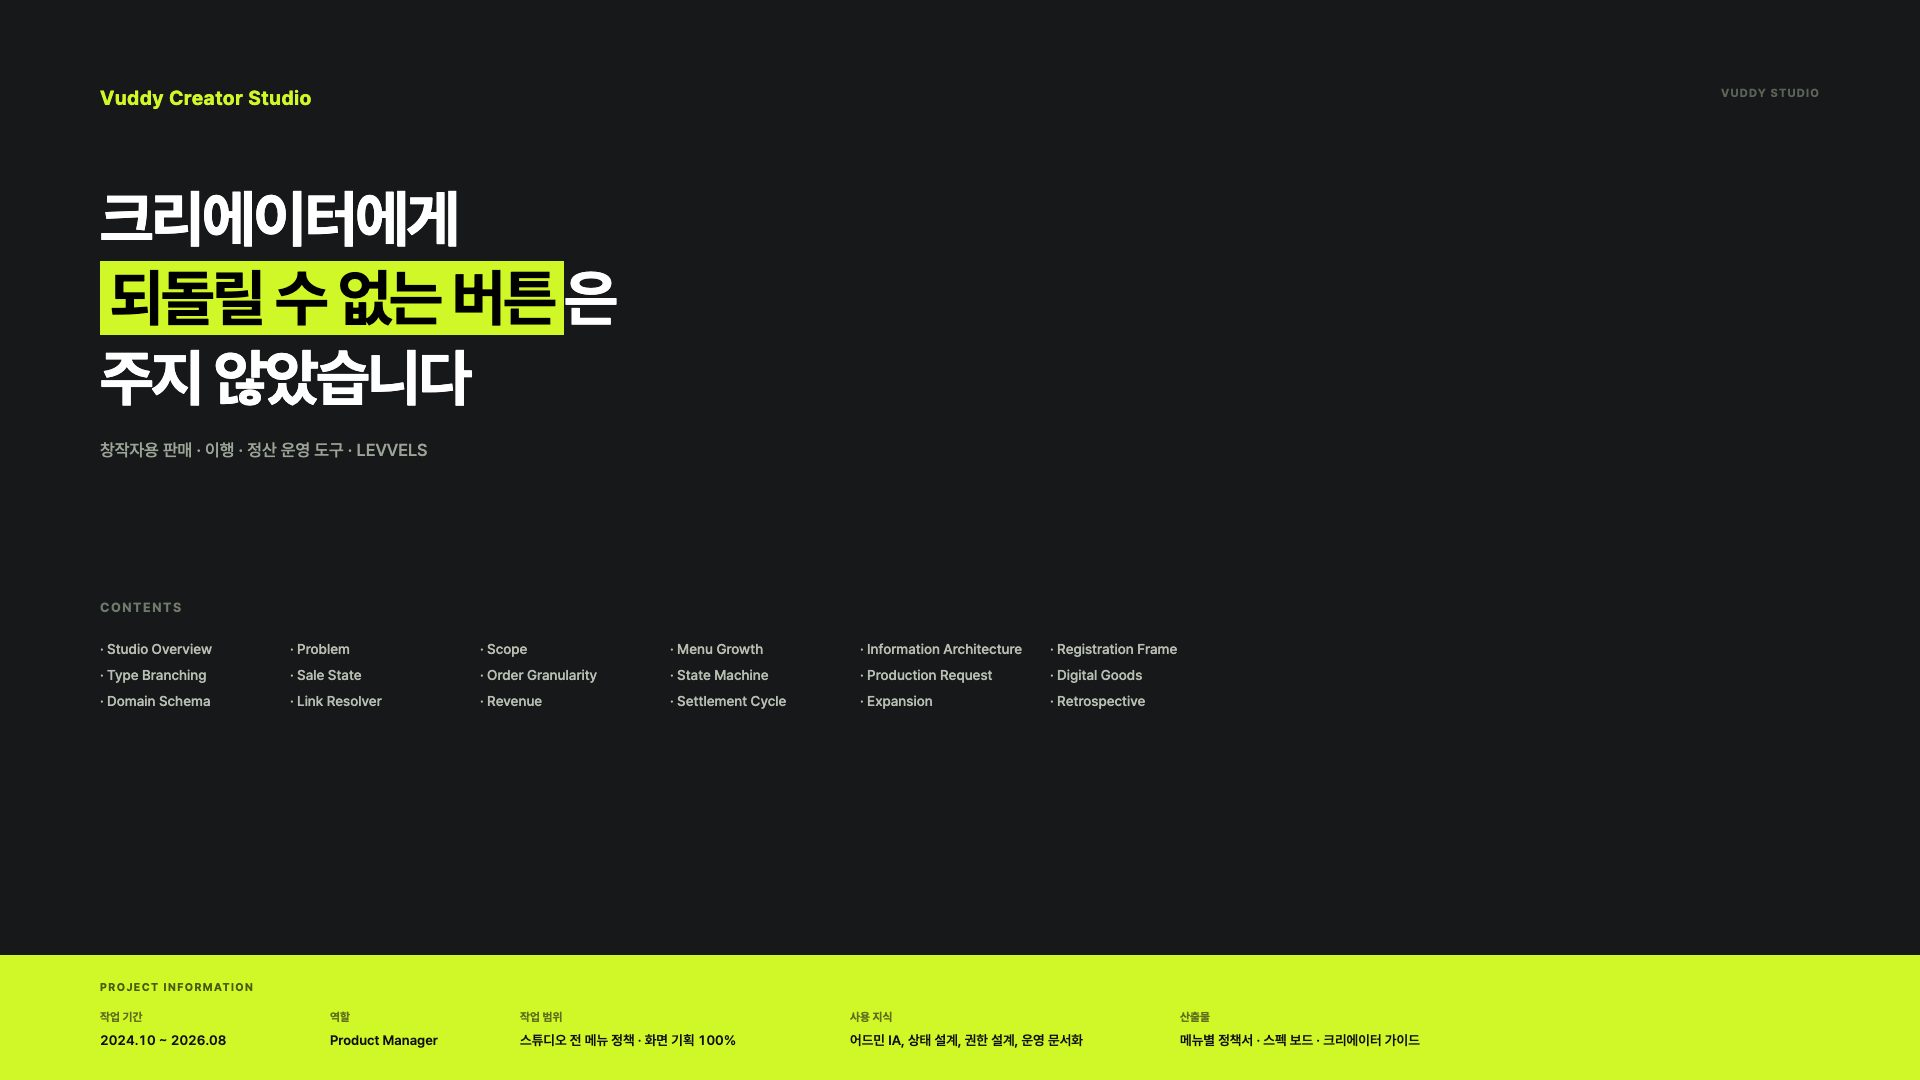
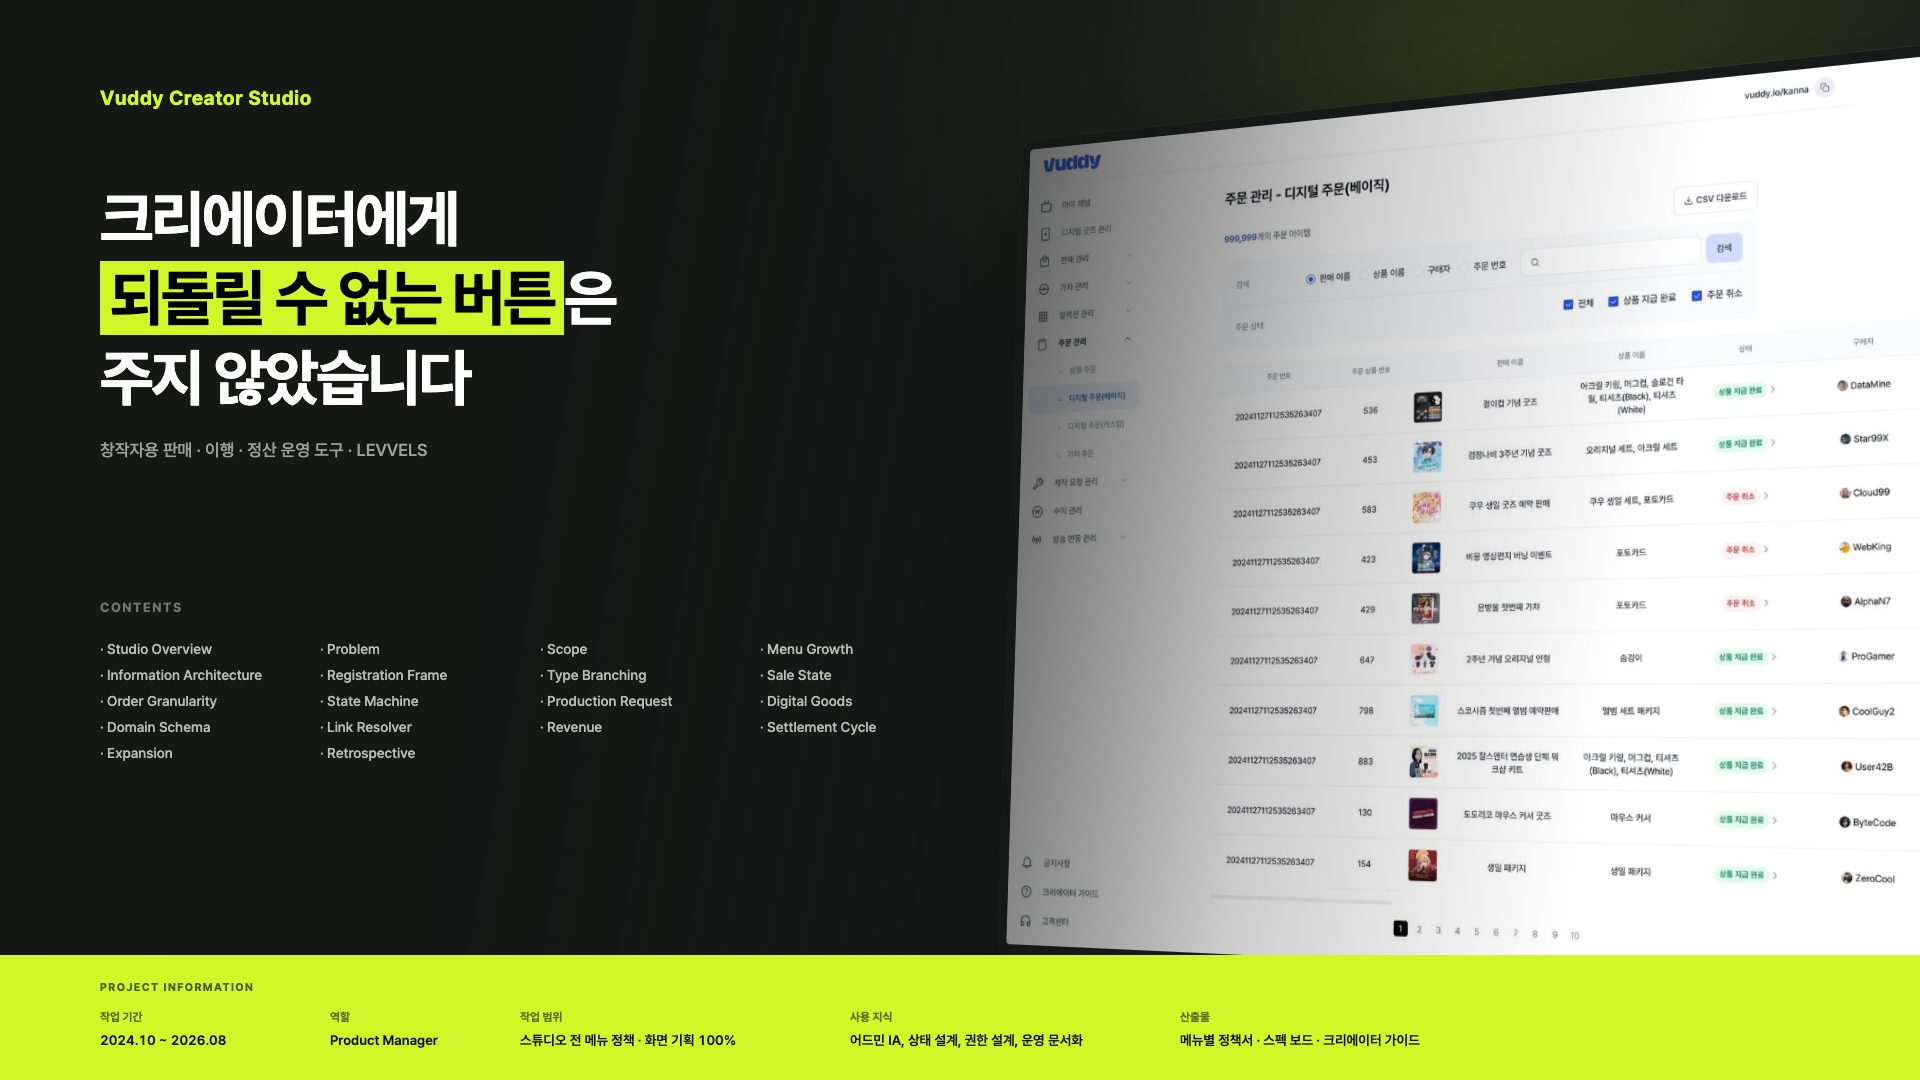
스튜디오 표지에 3D 백오피스 목업 추가
물류 커버(OMS·TMS·라스트마일)가 모두 기울인 기기 목업 안에 실제 제품
화면을 넣는 구조라 같은 방식으로 맞췄다. 표지가 텍스트만 있어 무엇을
만들었는지 한눈에 안 보이던 문제도 함께 해결된다.

- 주문 관리 화면을 CSS 3D(perspective + rotateY/X/Z)로 세우고 베젤과
  그림자를 붙여 목업으로 구성. 좌측에는 그라데이션 스크림을 깔아 제목
  가독성을 유지했다
- 배경에 키컬러 라임 글로우를 얹어 하단 정보 패널과 색을 맞춤

겹침 두 곳을 함께 정리:
- 우상단 'VUDDY STUDIO' 라벨이 목업 위에 찍혀 표지에서만 숨김
- CONTENTS 가 6열이라 오른쪽 3개 항목이 목업에 묻혀 4열로 좁힘
  (18개 항목은 그대로)

릴 썸네일도 새 표지로 재캡처.

diff --git a/works/studio-embed.html b/works/studio-embed.html
@@ -163,6 +163,22 @@ border-radius:3px;padding:7px 15px;font-size:13.5px;color:var(--g1);font-weight:
 
 <!-- ══ CS 01 · 커버 ══ -->
 <div class="wrap" id="cs-01"><div class="stage"><div class="fr cov">
+ <!-- 배경: 키컬러 글로우 + 3D 각도로 세운 스튜디오 화면 목업 -->
+ <div style="position:absolute;inset:0;overflow:hidden">
+   <div style="position:absolute;inset:0;background:
+     radial-gradient(1100px 760px at 78% 6%, rgba(208,247,39,.16), transparent 62%),
+     radial-gradient(900px 700px at 104% 58%, rgba(208,247,39,.10), transparent 58%)"></div>
+   <div style="position:absolute;left:1010px;top:132px;width:1180px;perspective:2000px">
+     <div style="transform:rotateY(-19deg) rotateX(5deg) rotateZ(-1.5deg);transform-origin:left center;
+                 border-radius:14px;overflow:hidden;background:#0d0f0d;
+                 border:10px solid #17191a;box-shadow:0 60px 120px rgba(0,0,0,.62),0 0 0 1px rgba(255,255,255,.06)">
+       <img src="../images/studio/studio-mock.jpg" alt="Vuddy 크리에이터 스튜디오 주문 관리 화면" style="display:block;width:100%">
+     </div>
+   </div>
+   <!-- 좌측 텍스트 가독성을 위한 스크림 -->
+   <div style="position:absolute;inset:0;background:linear-gradient(100deg,
+     rgba(22,24,22,.97) 0%,rgba(22,24,22,.94) 30%,rgba(22,24,22,.72) 48%,rgba(22,24,22,.22) 66%,rgba(22,24,22,0) 82%)"></div>
+ </div>
  <div style="position:absolute;left:100px;top:86px;font-size:20px;font-weight:700;color:var(--lime);letter-spacing:.02em">Vuddy Creator Studio</div>
  <div style="position:absolute;left:100px;top:180px;width:1300px;font-size:62px;font-weight:700;color:#fff;line-height:1.28;letter-spacing:-.04em">
    크리에이터에게<br><em style="font-style:normal;background:var(--lime);color:#000;padding:0 10px">되돌릴 수 없는 버튼</em>은<br>주지 않았습니다</div>
@@ -170,25 +186,25 @@ border-radius:3px;padding:7px 15px;font-size:13.5px;color:var(--g1);font-weight:
    창작자용 판매 · 이행 · 정산 운영 도구 · LEVVELS</div>
 
  <div style="position:absolute;left:100px;top:600px;font-size:13px;font-weight:700;color:#6E7A6C;letter-spacing:.12em">CONTENTS</div>
- <div style="position:absolute;left:100px;top:636px;width:1320px;display:flex;flex-wrap:wrap;gap:0">
-   <div style="width:190px;font-size:14px;color:#B6BEB2;font-weight:500;padding:5px 0">· Studio Overview</div>
-   <div style="width:190px;font-size:14px;color:#B6BEB2;font-weight:500;padding:5px 0">· Problem</div>
-   <div style="width:190px;font-size:14px;color:#B6BEB2;font-weight:500;padding:5px 0">· Scope</div>
-   <div style="width:190px;font-size:14px;color:#B6BEB2;font-weight:500;padding:5px 0">· Menu Growth</div>
-   <div style="width:190px;font-size:14px;color:#B6BEB2;font-weight:500;padding:5px 0">· Information Architecture</div>
-   <div style="width:190px;font-size:14px;color:#B6BEB2;font-weight:500;padding:5px 0">· Registration Frame</div>
-   <div style="width:190px;font-size:14px;color:#B6BEB2;font-weight:500;padding:5px 0">· Type Branching</div>
-   <div style="width:190px;font-size:14px;color:#B6BEB2;font-weight:500;padding:5px 0">· Sale State</div>
-   <div style="width:190px;font-size:14px;color:#B6BEB2;font-weight:500;padding:5px 0">· Order Granularity</div>
-   <div style="width:190px;font-size:14px;color:#B6BEB2;font-weight:500;padding:5px 0">· State Machine</div>
-   <div style="width:190px;font-size:14px;color:#B6BEB2;font-weight:500;padding:5px 0">· Production Request</div>
-   <div style="width:190px;font-size:14px;color:#B6BEB2;font-weight:500;padding:5px 0">· Digital Goods</div>
-   <div style="width:190px;font-size:14px;color:#B6BEB2;font-weight:500;padding:5px 0">· Domain Schema</div>
-   <div style="width:190px;font-size:14px;color:#B6BEB2;font-weight:500;padding:5px 0">· Link Resolver</div>
-   <div style="width:190px;font-size:14px;color:#B6BEB2;font-weight:500;padding:5px 0">· Revenue</div>
-   <div style="width:190px;font-size:14px;color:#B6BEB2;font-weight:500;padding:5px 0">· Settlement Cycle</div>
-   <div style="width:190px;font-size:14px;color:#B6BEB2;font-weight:500;padding:5px 0">· Expansion</div>
-   <div style="width:190px;font-size:14px;color:#B6BEB2;font-weight:500;padding:5px 0">· Retrospective</div>
+ <div style="position:absolute;left:100px;top:636px;width:880px;display:flex;flex-wrap:wrap;gap:0">
+   <div style="width:220px;font-size:14px;color:#B6BEB2;font-weight:500;padding:5px 0">· Studio Overview</div>
+   <div style="width:220px;font-size:14px;color:#B6BEB2;font-weight:500;padding:5px 0">· Problem</div>
+   <div style="width:220px;font-size:14px;color:#B6BEB2;font-weight:500;padding:5px 0">· Scope</div>
+   <div style="width:220px;font-size:14px;color:#B6BEB2;font-weight:500;padding:5px 0">· Menu Growth</div>
+   <div style="width:220px;font-size:14px;color:#B6BEB2;font-weight:500;padding:5px 0">· Information Architecture</div>
+   <div style="width:220px;font-size:14px;color:#B6BEB2;font-weight:500;padding:5px 0">· Registration Frame</div>
+   <div style="width:220px;font-size:14px;color:#B6BEB2;font-weight:500;padding:5px 0">· Type Branching</div>
+   <div style="width:220px;font-size:14px;color:#B6BEB2;font-weight:500;padding:5px 0">· Sale State</div>
+   <div style="width:220px;font-size:14px;color:#B6BEB2;font-weight:500;padding:5px 0">· Order Granularity</div>
+   <div style="width:220px;font-size:14px;color:#B6BEB2;font-weight:500;padding:5px 0">· State Machine</div>
+   <div style="width:220px;font-size:14px;color:#B6BEB2;font-weight:500;padding:5px 0">· Production Request</div>
+   <div style="width:220px;font-size:14px;color:#B6BEB2;font-weight:500;padding:5px 0">· Digital Goods</div>
+   <div style="width:220px;font-size:14px;color:#B6BEB2;font-weight:500;padding:5px 0">· Domain Schema</div>
+   <div style="width:220px;font-size:14px;color:#B6BEB2;font-weight:500;padding:5px 0">· Link Resolver</div>
+   <div style="width:220px;font-size:14px;color:#B6BEB2;font-weight:500;padding:5px 0">· Revenue</div>
+   <div style="width:220px;font-size:14px;color:#B6BEB2;font-weight:500;padding:5px 0">· Settlement Cycle</div>
+   <div style="width:220px;font-size:14px;color:#B6BEB2;font-weight:500;padding:5px 0">· Expansion</div>
+   <div style="width:220px;font-size:14px;color:#B6BEB2;font-weight:500;padding:5px 0">· Retrospective</div>
  </div>
 
  <div style="position:absolute;left:0;right:0;bottom:0;background:var(--lime);padding:26px 100px 30px">
@@ -201,7 +217,7 @@ border-radius:3px;padding:7px 15px;font-size:13.5px;color:var(--g1);font-weight:
      <div style="flex:1"><div style="font-size:11.5px;font-weight:700;color:#5F6E1E">산출물</div><div style="font-size:13.5px;font-weight:600;color:#111;margin-top:6px;line-height:1.5">메뉴별 정책서 · 스펙 보드 · 크리에이터 가이드</div></div>
    </div>
  </div>
- <div class="pgn w" style="bottom:auto;top:86px">VUDDY STUDIO</div>
+ <div class="pgn w" style="bottom:auto;top:86px;display:none">VUDDY STUDIO</div>
 </div></div></div>
 
 <!-- ══ CS 02 · 서비스 개요 ══ -->
